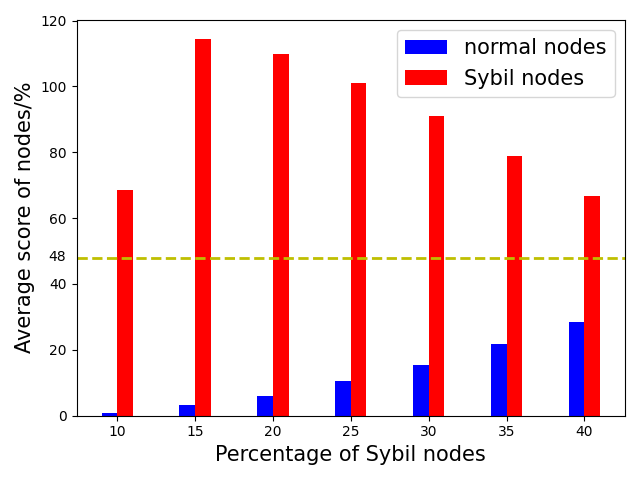
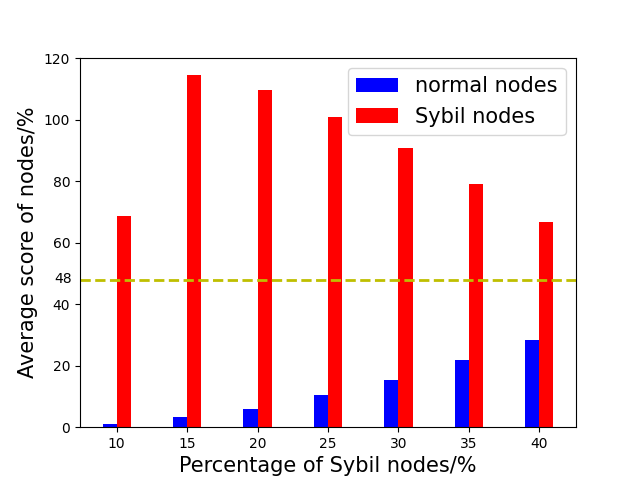
save and merge to master

diff --git a/model_simulation/ServerDetection/__init__.py b/model_simulation/ServerDetection/__init__.py
@@ -1,9 +1,8 @@
-from ServerDetection.model import Model
+from ServerDetection.model import Model, NormalSybilModel
 from ServerDetection.utils import statistics, score_statistics, method_statistics
 from ServerDetection.log import log
 from ServerDetection.server import Server
-from ServerDetection.server2 import Server2
-from ServerDetection.method_comparison import ComparisonServer, ScoreOnlyServer
+from ServerDetection.method_comparison import ComparisonServer, ScoreOnlyServer, AllCombinationServer, NRoundServer
 
 fp: list = []
 fn: list = []
@@ -17,7 +16,19 @@ avg_s = []
 
 def basic():
     for i in range(2000):
-        model = Model(10, 0.4, 0)
+        model = Model(16, 0.4, 2)
+        model.main_process()
+
+
+def n_rounds_server_model():
+    for i in range(2000):
+        model = Model(10, 0.4, 1, server=5)
+        model.main_process()
+
+
+def normal_sybil_model():
+    for i in range(2000):
+        model = NormalSybilModel(16, 0.4, 0)
         model.main_process()
 
 
@@ -94,7 +105,7 @@ def eviction_comparison(filename):
 def average_score_statistics():
     for i in range(10, 41, 5):
         for j in range(50):
-            model = Model(20, i/100, server="score")
+            model = Model(20, i / 100, server="score")
             model.main_process()
             server: Server = model.server
             score_statistics(server.score_list, model.normals, model.sybils, n_score, s_score)
@@ -107,8 +118,10 @@ def average_score_statistics():
 
 
 if __name__ == '__main__':
-    # basic()
+    basic()
+    # n_rounds_server_model()
+    # normal_sybil_model()
     # score_comparison()
     # score_comparison(server="server2")
     # eviction_comparison("eviction_comparison.txt")
-    average_score_statistics()
+    # average_score_statistics()

diff --git a/model_simulation/ServerDetection/case&plot.py b/model_simulation/ServerDetection/case&plot.py
@@ -1,6 +1,7 @@
 from matplotlib import transforms
 
 from ServerDetection.server import Server
+from ServerDetection.method_comparison import AllCombinationServer, NRoundServer
 from ServerDetection.utils import euclidean_d
 import json
 import ast
@@ -58,9 +59,10 @@ def case_test():
     print("Sybils:", s_list)
     print("Normals:", n_list)
     print("Malicious:", m_list)
-    server = Server(len(s_list) + len(n_list) + len(m_list))
+    server = NRoundServer(len(s_list) + len(n_list) + len(m_list))
     server.sentry_record = sentry_record
     server.score_list = score
+    # server.rnd = server.node_num
     server.process_finished()
     server._add_task(exit)
     server.threads[0].join()
@@ -192,7 +194,7 @@ def plot_avg_score():
     plt.bar([i - 0.5 for i in x_axis], avg_n, 1, color='b', label="normal nodes")
     plt.bar([i + 0.5 for i in x_axis], avg_s, 1, color='r', label="Sybil nodes")
     plt.xticks(x_axis, x_axis)
-    plt.xlabel("Percentage of Sybil nodes", fontsize=15)
+    plt.xlabel("Percentage of Sybil nodes/%", fontsize=15)
     plt.ylabel("Average score of nodes/%", fontsize=15)
     plt.axhline(48, 0, 40, color='y', linestyle='--', linewidth=2)
     plt.text(5.6, 47, "48", size="medium")
@@ -203,8 +205,8 @@ def plot_avg_score():
 if __name__ == '__main__':
     pass
     # server_test()
-    # case_test()
+    case_test()
     # cal_std_mean([0,0,0,0,0,0,0,0,0,0,7,7])
-    plot_sentry_comparison()
-    plot_eviction_comparison()
-    plot_avg_score()
+    # plot_sentry_comparison()
+    # plot_eviction_comparison()
+    # plot_avg_score()
